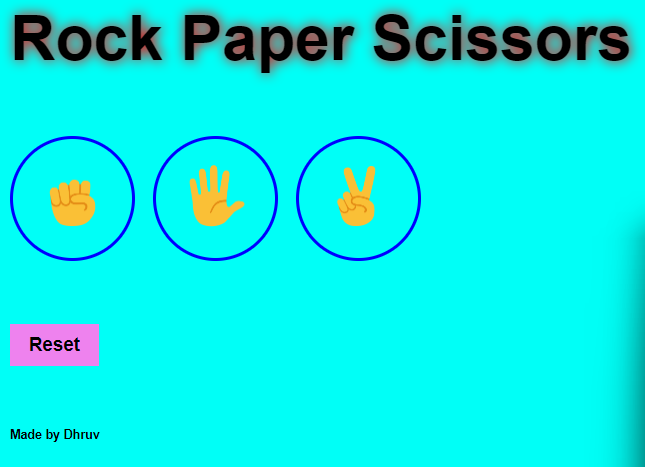
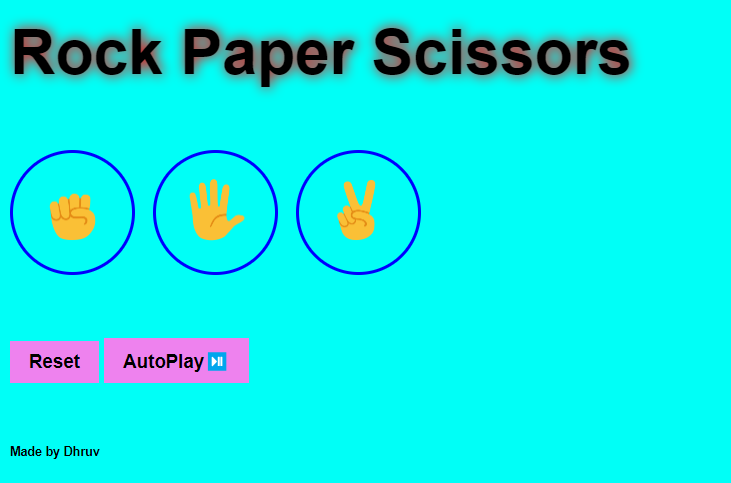
Added the autoplay functionality

diff --git a/rock-paper-scissor.js b/rock-paper-scissor.js
@@ -1,3 +1,6 @@
+let isAutoPlaying = false;
+let intervalId;
+
 let score = JSON.parse(localStorage.getItem('score')) || {
     myScore: 0,
     compScore: 0,
@@ -12,6 +15,22 @@ function resetValues() {
     document.querySelector('.js-move-chosen').innerHTML = `Let's start again`;
     document.querySelector('.js-result').innerHTML = `Reset`;
     localStorage.removeItem('score');
+}
+
+function autoPlay() {
+    if (!isAutoPlaying) {
+        intervalId = setInterval(function() {
+            let ranDomMove = Math.random();
+            ranDomMove *= 3;
+            const myMove = (ranDomMove < 1 ? 'rock': (ranDomMove < 2 ? 'paper' : 'scissors')); 
+            pickMove(myMove);
+        }, 1000);
+        isAutoPlaying = true;
+    }
+    else {
+        clearInterval(intervalId);
+        isAutoPlaying = false;
+    }
 }
 
 function updateScoreElement() {

diff --git a/index.html b/index.html
@@ -25,6 +25,9 @@
     <button class="reset-button" onclick="resetValues();">
         Reset
     </button>
+    <button class="autoplay-button" onclick="autoPlay();">
+        AutoPlay⏯
+    </button>
     <p class="creator">Made by Dhruv</p>
 </body>
 </html>

diff --git a/rock-paper-scissor.css b/rock-paper-scissor.css
@@ -33,7 +33,7 @@ body {
     text-shadow: 5px -5px 2px white;
 }
 
-.reset-button {
+.reset-button, .autoplay-button {
     background-color: Violet;
     border: none;
     font-size: 15px;

diff --git a/README.md b/README.md
@@ -1,14 +1,14 @@
 # ROCK-PAPER-SCISSORS Game
 
 ## The Game is built using HTML, CSS and JavaScript.  
-<br />   
+   
 
 ### Features:  
 
 * We can reset the game at any time to play again.
 * The game is using the local storage of the browser so the scores won't get deleted even if the tab is closed somehow.
 * Easy to play!!!
-<br />   <br />   
+<br /> 
 
 ### Screenshots:
 
@@ -29,6 +29,14 @@
 
 ![Resetting Game](screenshots/Screenshot-3.png)
 <br />  
+
+* AutoPlay the Game:
+<br />   
+
+![Autoplaying Game](screenshots/Screenshot-4.png)
+<br />  
+
+
 
 
 ##### By Dhruv Patel
